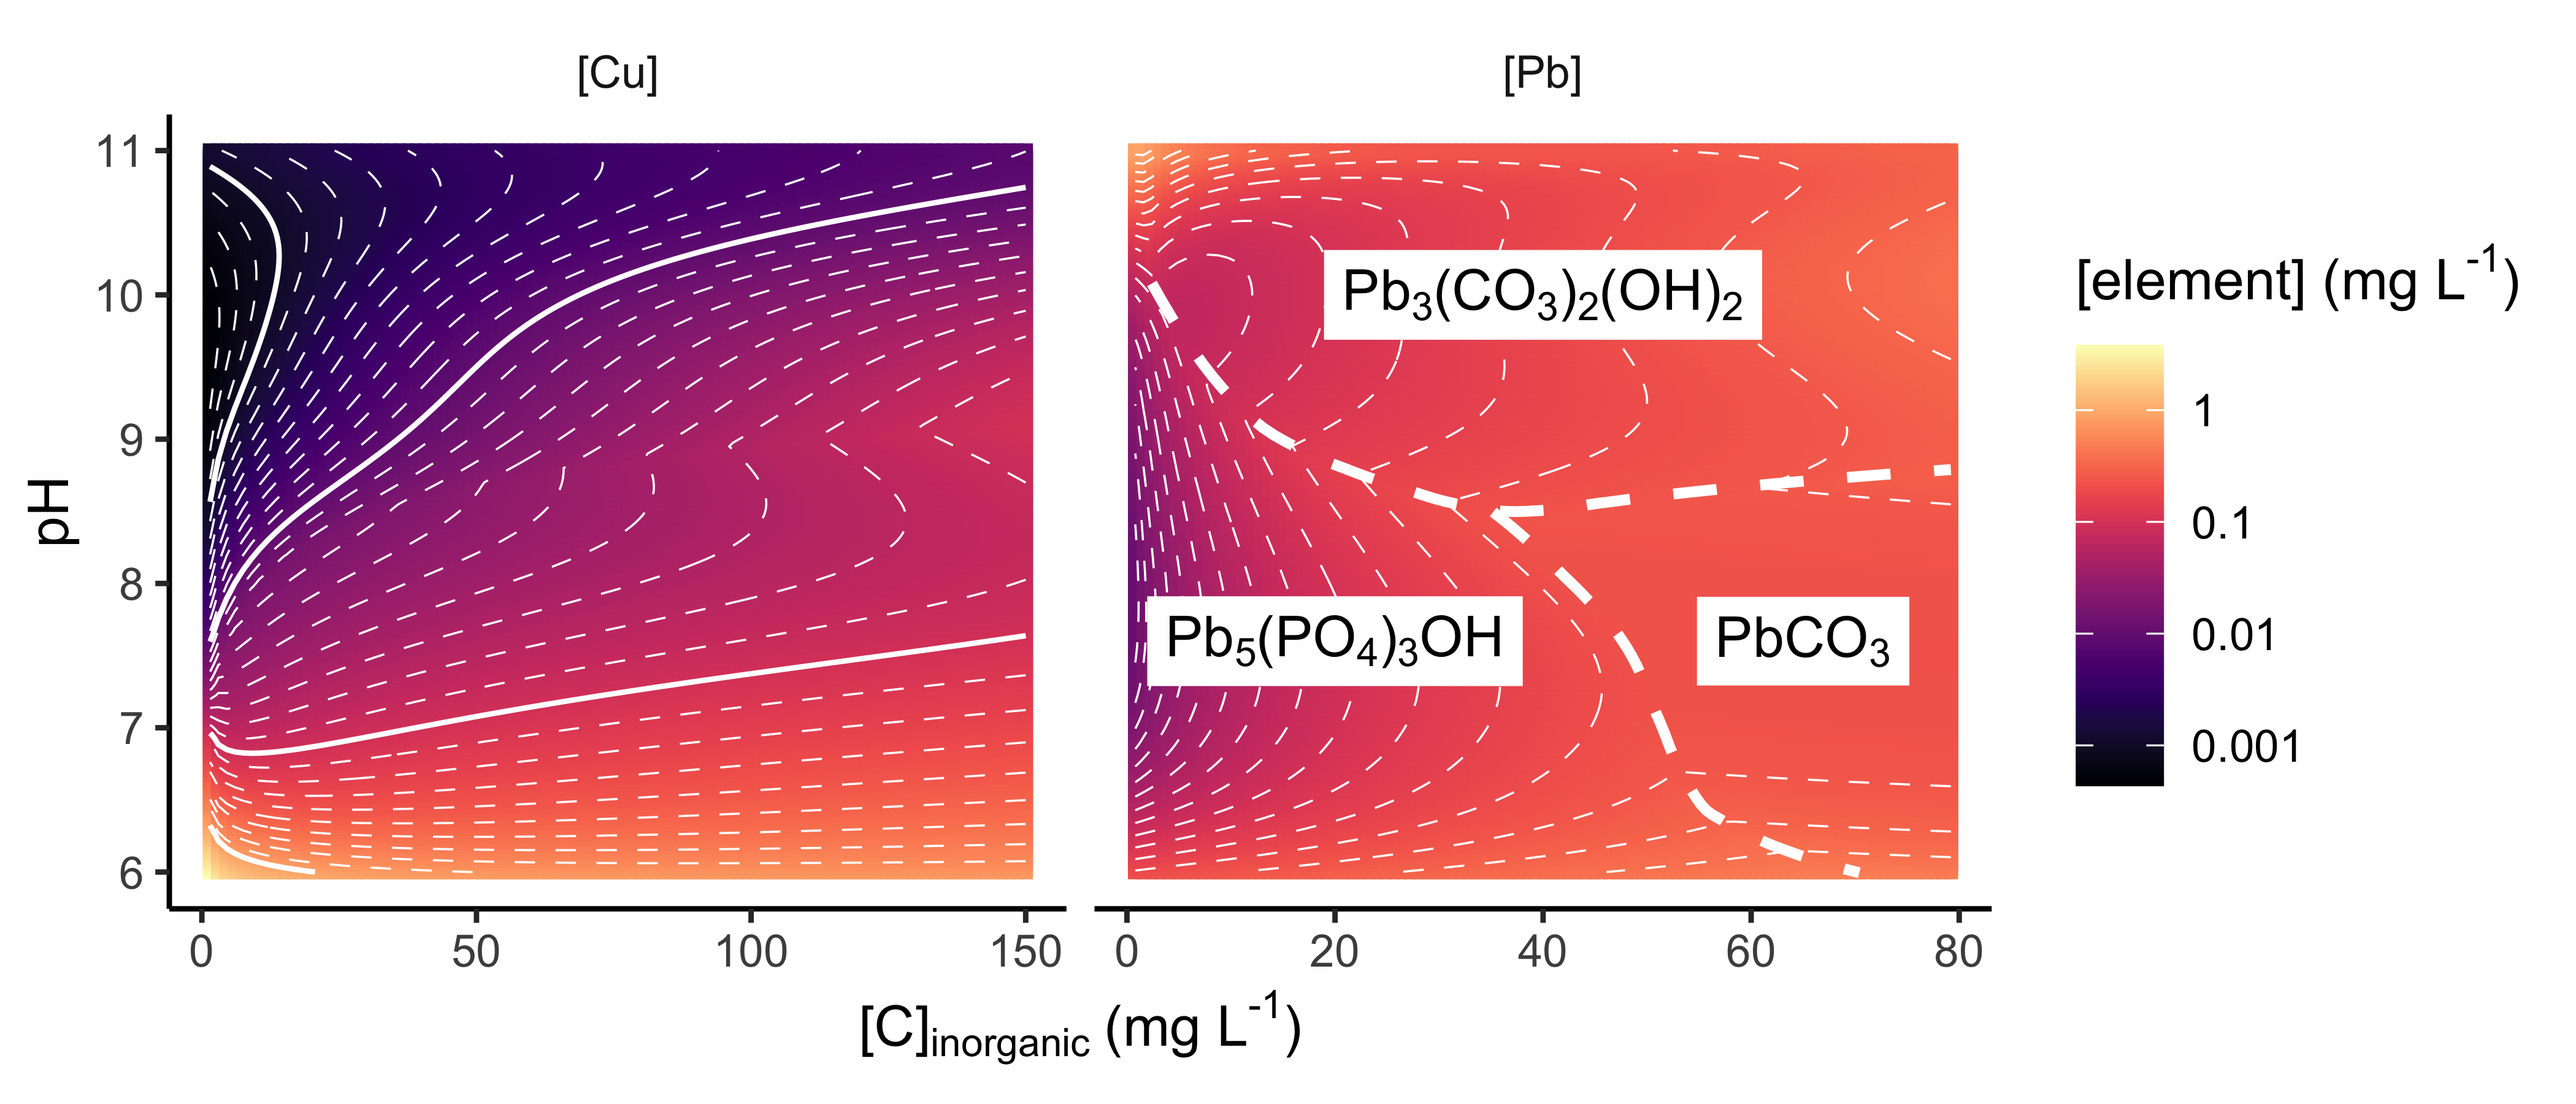
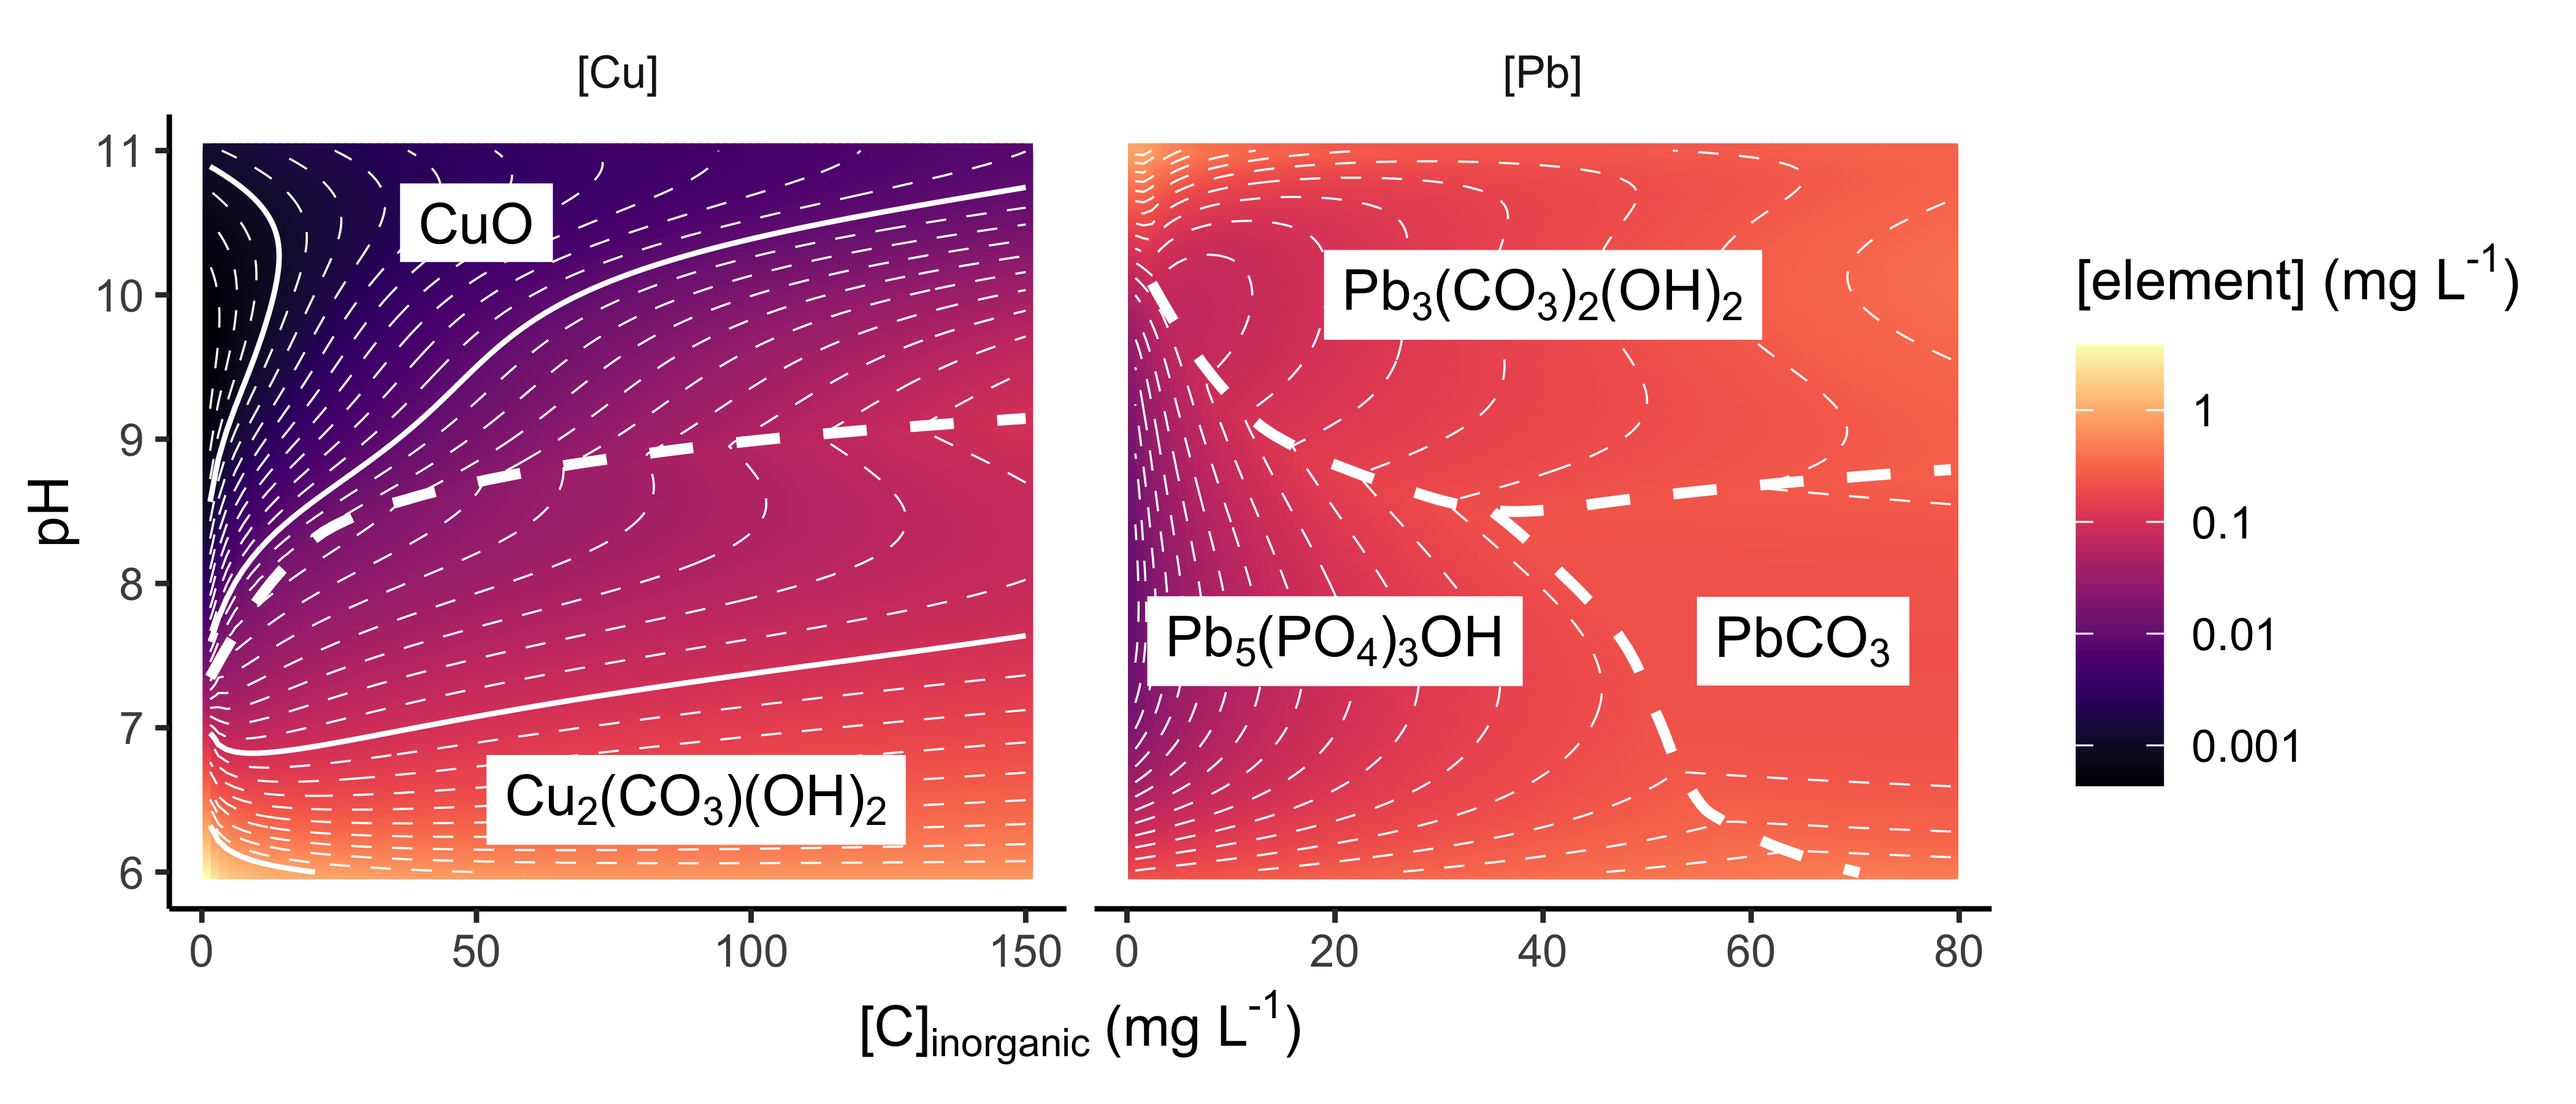
added lytle et al. empirical

diff --git a/README.md b/README.md
@@ -37,8 +37,8 @@ library("viridis")
 
 Use `cu_sol()` to calculate the equlibrium solubility of multiple copper
 phases that occur in drinking water systems, over a wide range of pH
-values and dissolved inorganic carbon concentrations. N.B., evaluate on
-a smaller grid to speed this up\!
+values and dissolved inorganic carbon concentrations. (N.B., evaluate on
+a smaller grid to speed this up\!)
 
 ``` r
 dic_increment_cu <- 1.5
@@ -55,7 +55,10 @@ solutions_cu <- list("Cu(OH)2", "Tenorite", "Malachite") %>%
 ```
 
 Plot the data (n.b., plots shown here will differ slightly from those
-the following code generates).
+the following code generates). Lytle et al. (2018) have noted that
+copper solubility predictions are not reliable in the presence of
+orthophosphate, and they propose an empirical model as an alternative.
+It is implemented in `cu_sol()` via the argument `empirical = TRUE`.
 
 ``` r
 solutions_cu %>% 
@@ -70,9 +73,8 @@ solutions_cu %>%
   viridis::scale_fill_viridis(option = "magma")
 ```
 
-<img src="man/figures/README-cu-plot-1.png" width="100%" />
-
-Use `pb_sol()` to do the same for lead. The helper function
+<img src="man/figures/README-cu-plot-1.png" width="100%" /> Use
+`pb_sol()` to make the same predictions for lead. The helper function
 `calculate_dic()` may be useful for converting alkalinity to dissolved
 inorganic carbon.
 
@@ -117,12 +119,17 @@ Schock et al. (1995) and Figure 4-18 in Schock et al. (1996).
 
 # References
 
-Charlton, S.R., and Parkhurst, D.L, 2011, Modules based on the
+Charlton, S.R., and D. L. Parkhurst, 2011, Modules based on the
 geochemical model PHREEQC for use in scripting and programming
 languages: Computers & Geosciences, v. 37, p. 1653-1663.
 
 Dunnington, D. 2019. tidyphreeqc: Tidy Geochemical Modeling Using
 PHREEQC. <https://github.com/paleolimbot/tidyphreeqc>.
+
+Lytle, D. A., M. R. Schock, J. Leo, and B. Barnes. 2018. A model for
+estimating the impact of orthophosphate on copper in water. Journal
+AWWA. 110: E1-E15.
+<https://doi-org.ezproxy.library.dal.ca/10.1002/awwa.1109>
 
 Parkhurst, D. L., and C. A. J. Appelo. 2013. Description of input and
 examples for PHREEQC version 3–A computer program for speciation, batch-
